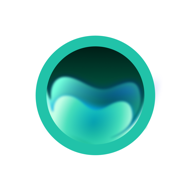
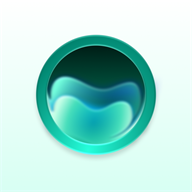
スマホでは SaeTab 連携を読み込まない。Nagi の PWA アイコンを ilpan の9番に差し替え
- toolbox/index.html: スマホ（iPhone・iPod・Android の Mobile）では saetab-bridge を読み込まない。タブレットと PC では今まで通り

- nagi/ico: PWA・apple-touch-icon を icons/ilpan/sk-flat-9.png から作り直し

- nagi/sw.js: キャッシュ名を nagi-v13 に上げ、差し替えたアイコンを取り直す

diff --git a/toolbox/index.html b/toolbox/index.html
@@ -216,8 +216,8 @@
         <p class="tbh-note"><a href="/toolbox/settings/">Toolbox の設定</a> · <a href="/products/">SK のプロダクト</a> · <a href="/policies/">利用規約・プライバシーポリシー</a></p>
       </footer>
     </div>
-    <!-- SaeTab 連携。LINE の中（?line= で開いたとき）では出さない -->
-    <script>if (!document.documentElement.classList.contains("in-line")) document.write('<script src="./saetab-bridge/saetab-bridge.js"><\/script>');</script>
+    <!-- SaeTab 連携。LINE の中（?line= で開いたとき）と、スマホでは出さない（タブレットと PC では出す） -->
+    <script>if (!document.documentElement.classList.contains("in-line") && !/iPhone|iPod|Android.*Mobile/.test(navigator.userAgent)) document.write('<script src="./saetab-bridge/saetab-bridge.js"><\/script>');</script>
     <!-- リマインダー（Todo）の共通: データの形・完了・時刻の通知 -->
     <script src="/toolbox/shared/m3.js"></script>
     <script src="/toolbox/shared/remind.js"></script>

diff --git a/nagi/sw.js b/nagi/sw.js
@@ -1,7 +1,7 @@
 // Nagi のサービスワーカー（ホーム画面に追加したとき・オフラインでも開けるように）
 // 画面の部品は先にキャッシュし、ページ本体は通信優先（オフラインのときだけキャッシュ）。
 // 他サイト（Firestore・Google Fonts など）・アクセスチェック（/frameworks/）・アカウント（/assets/hub/）はキャッシュしない
-const CACHE_NAME = 'nagi-v12';
+const CACHE_NAME = 'nagi-v13';
 const urlsToCache = [
   '/nagi/',
   '/nagi/index.html',
